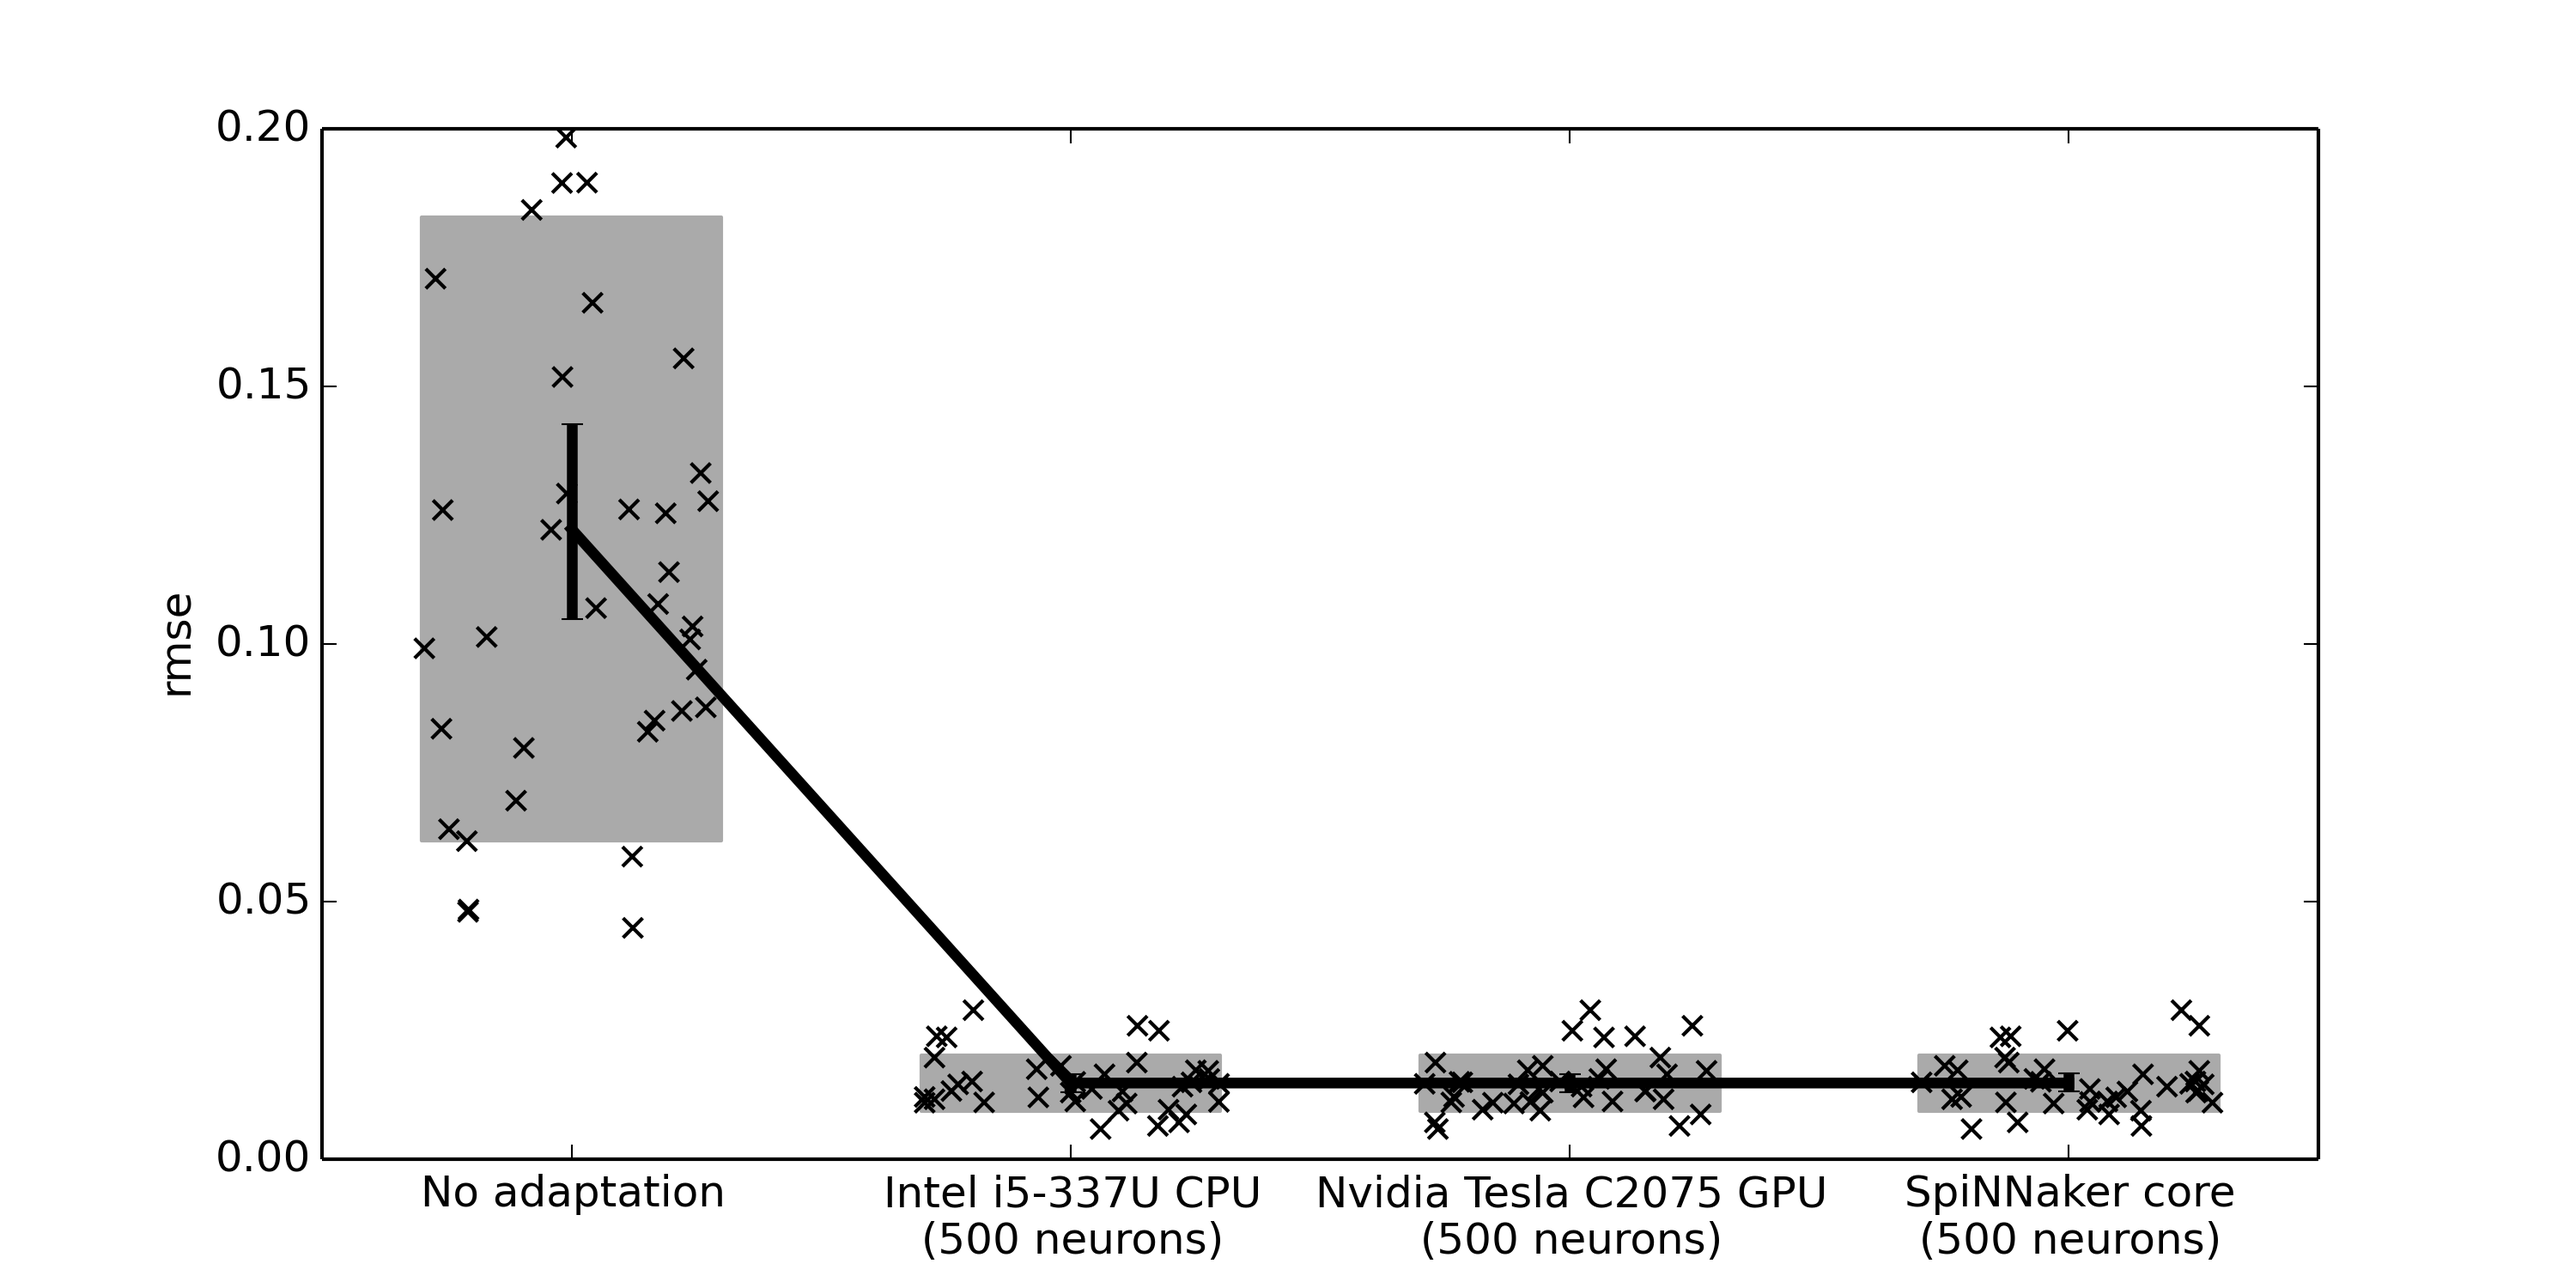
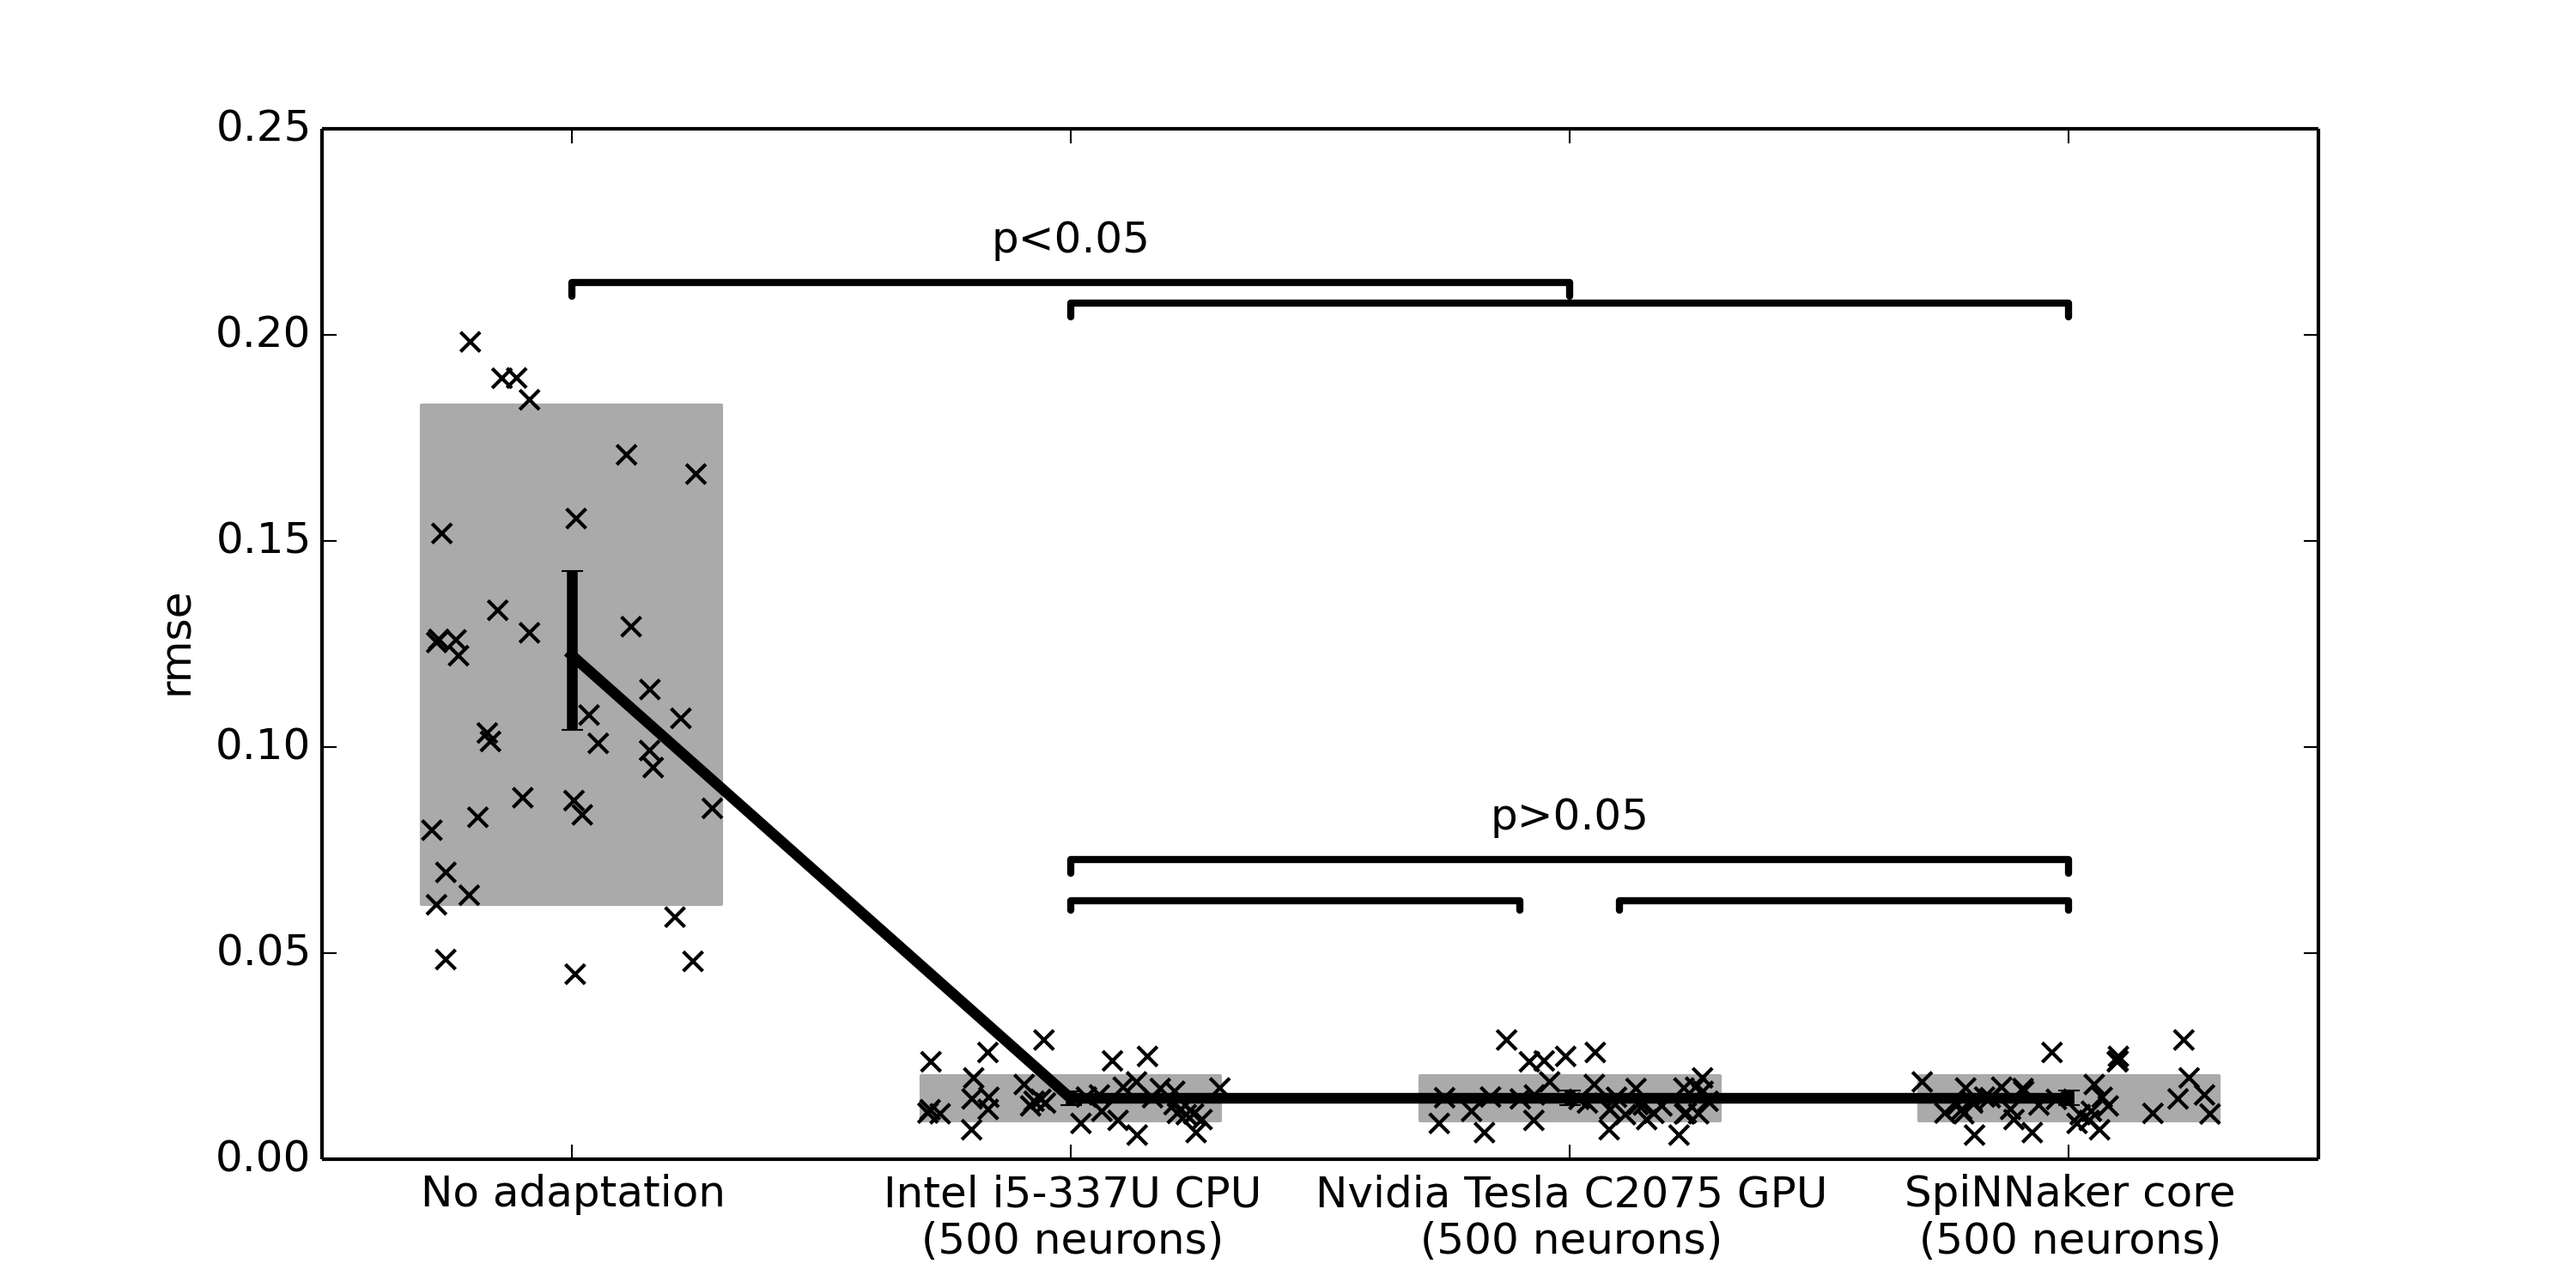
Updated plots with p values

diff --git a/code/plot_power.py b/code/plot_power.py
@@ -1,0 +1,93 @@
+import os
+import sys
+import bootstrapci
+
+import numpy as np
+import pylab
+
+fig = pylab.figure(figsize=(10,5))
+ax = fig.add_subplot(1,1,1)
+
+do_logx = False
+
+error_bars = []
+error_means = []
+all_data = []
+index = 1
+#for n_neurons in [0, 5200, 1500, 500]:
+for n_neurons in [ 23, 38, 500]:
+    path = 'vary_neurons3_%d' % n_neurons
+
+    data_x = []
+    data_y = []
+    for fn in os.listdir(path):
+        if fn.endswith('.txt'):
+            with open(os.path.join(path, fn)) as f:
+                text = f.read()
+            d = dict()
+            try:
+                exec(text, d)
+            except:
+                continue
+
+            if d['_seed'] == 20:
+                continue
+
+            x = d['_D']
+            y = d['rmse']
+
+            if do_logx:
+                x = np.log2(x)
+            if y > 1.0:
+                continue
+                y = 1.0
+
+            data_x.append(x)
+            data_y.append(y)
+            print x, y
+
+    #data_x = data_x[:30]
+    #data_y = data_y[:30]
+
+    data_x = np.array(data_x)
+    data_y = np.array(data_y)
+    all_data.append(data_y)
+
+
+    mean = np.mean(data_y)
+    sd = np.std(data_y)
+    ci = bootstrapci.bootstrapci(data_y, np.mean)
+
+    width = 0.3
+
+    pylab.fill_between([index-width, index+width], mean-sd, mean+sd, color='#aaaaaa')
+    pylab.scatter(np.random.uniform(index-width, index+width, data_y.shape), data_y, s=30, marker='x', color='k')
+    error_means.append(mean)
+    error_bars.append([mean-ci[0], ci[1]-mean])
+    index += 1
+
+import scipy.stats
+for i, j in [(0,1), (0,2), (1,2)]:
+    print i, j, scipy.stats.ttest_ind(all_data[i], all_data[j])[1]
+
+error_bars = np.array(error_bars)
+
+pylab.errorbar(np.arange(len(error_bars))+1, error_means, yerr=error_bars.T, color='k', linewidth=3)
+
+pylab.xticks([1, 2, 3], ['Intel i5-337U CPU\n(23 neurons)', 'Nvidia Tesla C2075 GPU\n(38 neurons)', 'SpiNNaker core\n(500 neurons)'])
+
+def annotate_bar(ax, text, x1, x2, y, text_offset, shrink=50):
+    ax.annotate(text, xy=((x1+x2)*0.5, y+text_offset), ha='center')
+    props = dict(connectionstyle='bar', arrowstyle='-', shrinkA=shrink, 
+                 shrinkB=shrink, lw=2)
+    ax.annotate('', xy=(x1,y), xytext=(x2, y), arrowprops=props)
+
+annotate_bar(ax, 'p<0.05', 1, 3, 0.019, 0.017, shrink=105)
+annotate_bar(ax, 'p>0.05', 1, 1.9, 0.022, 0.008, shrink=45)
+annotate_bar(ax, 'p<0.05', 2.1, 3, 0.022, 0.008, shrink=45)
+
+pylab.title('Computational Efficiency Benchmark')
+pylab.ylabel('rmse')
+pylab.ylim(0, 0.04)
+pylab.savefig('plot_power.png', dpi=300)
+#pylab.show()

diff --git a/code/plot_compute.py b/code/plot_compute.py
@@ -1,0 +1,93 @@
+import os
+import sys
+import bootstrapci
+
+import numpy as np
+import pylab
+
+fig = pylab.figure(figsize=(10,5))
+ax = fig.add_subplot(1,1,1)
+
+do_logx = False
+
+error_bars = []
+error_means = []
+all_data = []
+index = 1
+#for n_neurons in [0, 5200, 1500, 500]:
+for n_neurons in [5200, 1500, 500]:
+    path = 'vary_neurons3_%d' % n_neurons
+
+    data_x = []
+    data_y = []
+    for fn in os.listdir(path):
+        if fn.endswith('.txt'):
+            with open(os.path.join(path, fn)) as f:
+                text = f.read()
+            d = dict()
+            try:
+                exec(text, d)
+            except:
+                continue
+
+            if d['_seed'] == 20:
+                continue
+
+            x = d['_D']
+            y = d['rmse']
+
+            if do_logx:
+                x = np.log2(x)
+            if y > 1.0:
+                continue
+                y = 1.0
+
+            data_x.append(x)
+            data_y.append(y)
+            print x, y
+
+    #data_x = data_x[:30]
+    #data_y = data_y[:30]
+
+    data_x = np.array(data_x)
+    data_y = np.array(data_y)
+    all_data.append(data_y)
+
+    mean = np.mean(data_y)
+    sd = np.std(data_y)
+    ci = bootstrapci.bootstrapci(data_y, np.mean)
+
+    width = 0.3
+
+    pylab.fill_between([index-width, index+width], mean-sd, mean+sd, color='#aaaaaa')
+    pylab.scatter(np.random.uniform(index-width, index+width, data_y.shape), data_y, s=30, marker='x', color='k')
+    error_means.append(mean)
+    error_bars.append([mean-ci[0], ci[1]-mean])
+    index += 1
+
+error_bars = np.array(error_bars)
+
+pylab.errorbar(np.arange(len(error_bars))+1, error_means, yerr=error_bars.T, color='k', linewidth=3)
+
+import scipy.stats
+for i, j in [(0,1), (0,2), (1,2)]:
+    print i, j, scipy.stats.ttest_ind(all_data[i], all_data[j])[1]
+
+pylab.xticks([1, 2, 3], ['Intel i5-337U CPU\n(5200 neurons)', 'Nvidia Tesla C2075 GPU\n(1500 neurons)', 'SpiNNaker core\n(500 neurons)'])
+
+def annotate_bar(ax, text, x1, x2, y, text_offset, shrink=50):
+    ax.annotate(text, xy=((x1+x2)*0.5, y+text_offset), ha='center')
+    props = dict(connectionstyle='bar', arrowstyle='-', shrinkA=shrink, 
+                 shrinkB=shrink, lw=2)
+    ax.annotate('', xy=(x1,y), xytext=(x2, y), arrowprops=props)
+
+annotate_bar(ax, 'p>0.05', 1, 3, 0.019, 0.017, shrink=105)
+annotate_bar(ax, '', 1, 1.9, 0.025, 0.04, shrink=45)
+annotate_bar(ax, '', 2.1, 3, 0.025, 0.04, shrink=45)
+
+
+pylab.title('Computational Power Benchmark')
+pylab.ylabel('rmse')
+pylab.ylim(0, 0.04)
+pylab.savefig('plot_compute.png', dpi=100)
+#pylab.show()

diff --git a/code/plot_basic.py b/code/plot_basic.py
@@ -1,0 +1,87 @@
+import os
+import sys
+import bootstrapci
+
+import numpy as np
+import pylab
+
+fig = pylab.figure(figsize=(10,5))
+ax = fig.add_subplot(1,1,1)
+
+do_logx = False
+
+error_bars = []
+error_means = []
+index = 1
+for n_neurons in [0, 500, 500, 500]:
+    path = 'vary_neurons3_%d' % n_neurons
+
+    data_x = []
+    data_y = []
+    for fn in os.listdir(path):
+        if fn.endswith('.txt'):
+            with open(os.path.join(path, fn)) as f:
+                text = f.read()
+            d = dict()
+            try:
+                exec(text, d)
+            except:
+                continue
+
+            if d['_seed'] == 20:
+                continue
+
+            x = d['_D']
+            y = d['rmse']
+
+            if do_logx:
+                x = np.log2(x)
+            if y > 1.0:
+                continue
+                y = 1.0
+
+            data_x.append(x)
+            data_y.append(y)
+            print x, y
+
+    #data_x = data_x[:30]
+    #data_y = data_y[:30]
+
+    data_x = np.array(data_x)
+    data_y = np.array(data_y)
+
+
+    mean = np.mean(data_y)
+    sd = np.std(data_y)
+    ci = bootstrapci.bootstrapci(data_y, np.mean)
+
+    width = 0.3
+
+    pylab.fill_between([index-width, index+width], mean-sd, mean+sd, color='#aaaaaa')
+    pylab.scatter(np.random.uniform(index-width, index+width, data_y.shape), data_y, s=30, marker='x', color='k')
+    error_means.append(mean)
+    error_bars.append([mean-ci[0], ci[1]-mean])
+    index += 1
+
+error_bars = np.array(error_bars)
+
+pylab.errorbar(np.arange(len(error_bars))+1, error_means, yerr=error_bars.T, color='k', linewidth=3)
+
+pylab.xticks([1, 2, 3, 4], ['No adaptation', 'Intel i5-337U CPU\n(500 neurons)', 'Nvidia Tesla C2075 GPU\n(500 neurons)', 'SpiNNaker core\n(500 neurons)'])
+
+def annotate_bar(ax, text, x1, x2, y, text_offset, shrink=50):
+    ax.annotate(text, xy=((x1+x2)*0.5, y+text_offset), ha='center')
+    props = dict(connectionstyle='bar', arrowstyle='-', shrinkA=shrink, 
+                 shrinkB=shrink, lw=2)
+    ax.annotate('', xy=(x1,y), xytext=(x2, y), arrowprops=props)
+
+annotate_bar(ax, 'p<0.05', 1, 3, 0.14, 0.08, shrink=80)
+annotate_bar(ax, '', 2, 4, 0.135, 0, shrink=80)
+annotate_bar(ax, 'p>0.05', 2, 4, 0, 0.08, shrink=80)
+annotate_bar(ax, '', 2, 2.9, 0.03, 0.04, shrink=35)
+annotate_bar(ax, '', 3.1, 4, 0.03, 0.04, shrink=35)
+
+pylab.ylabel('rmse')
+pylab.ylim(0, 0.25)
+pylab.savefig('plot_basic.png', dpi=300)
+#pylab.show()
